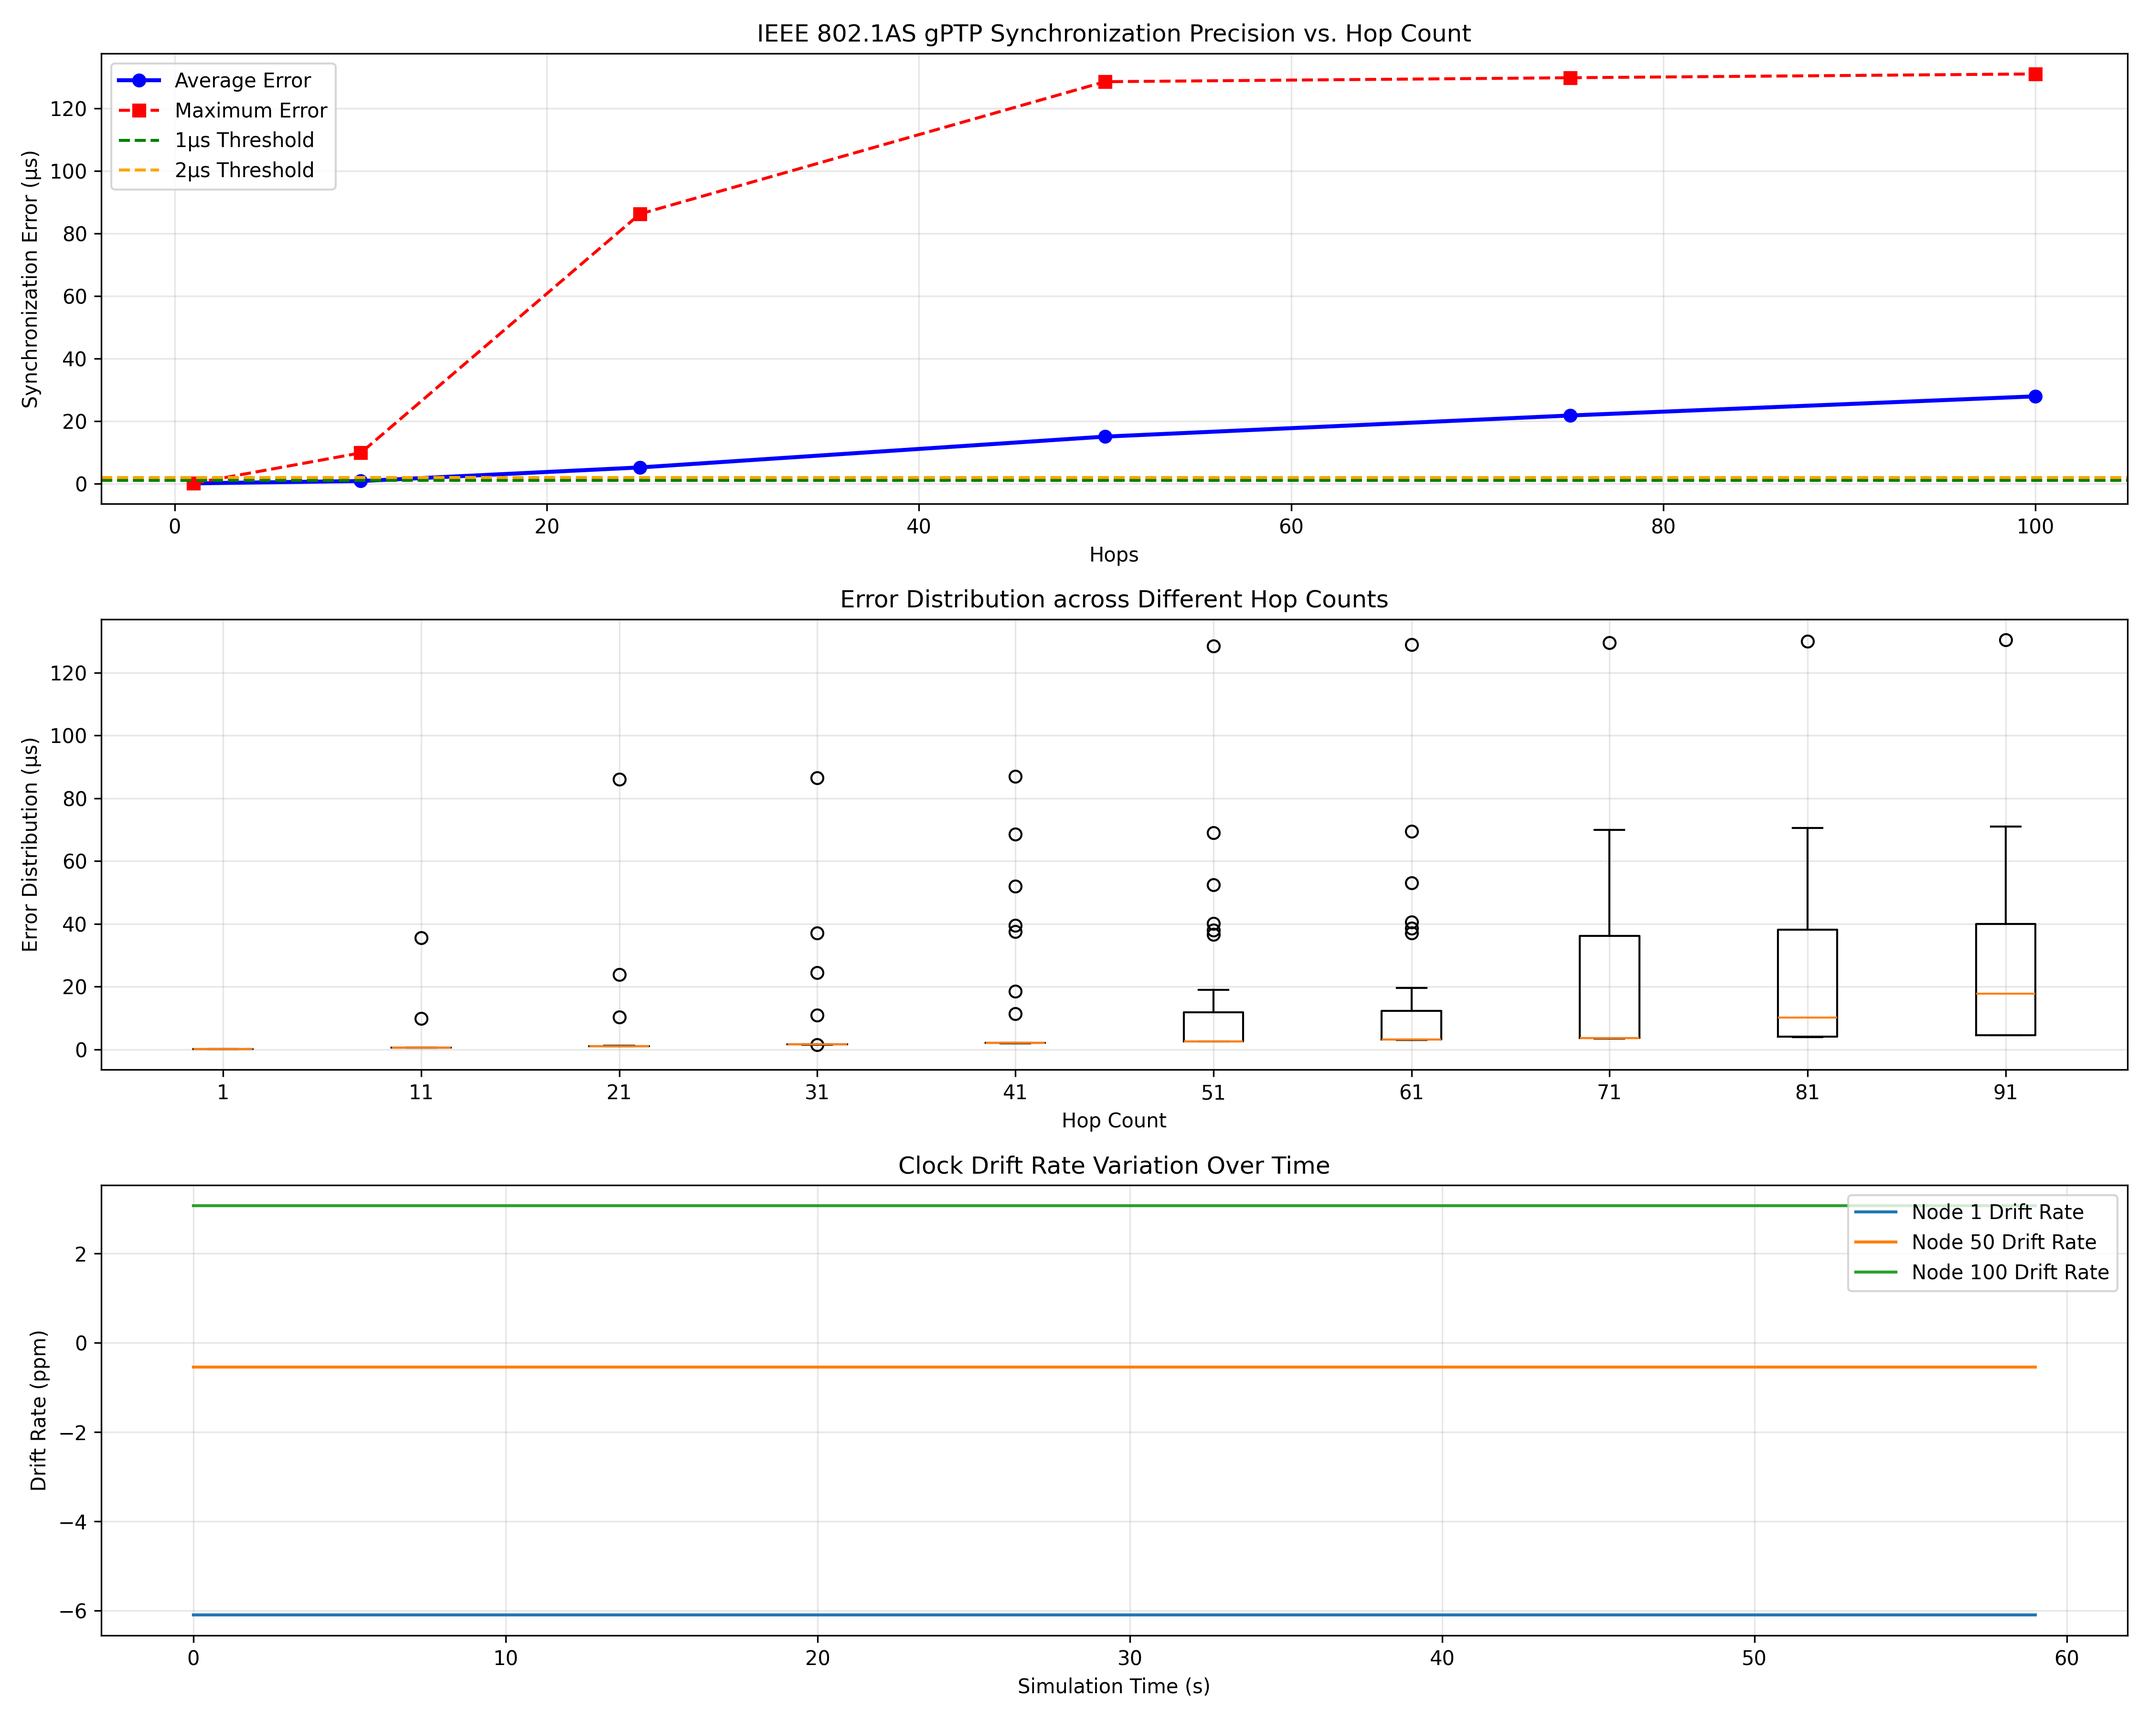
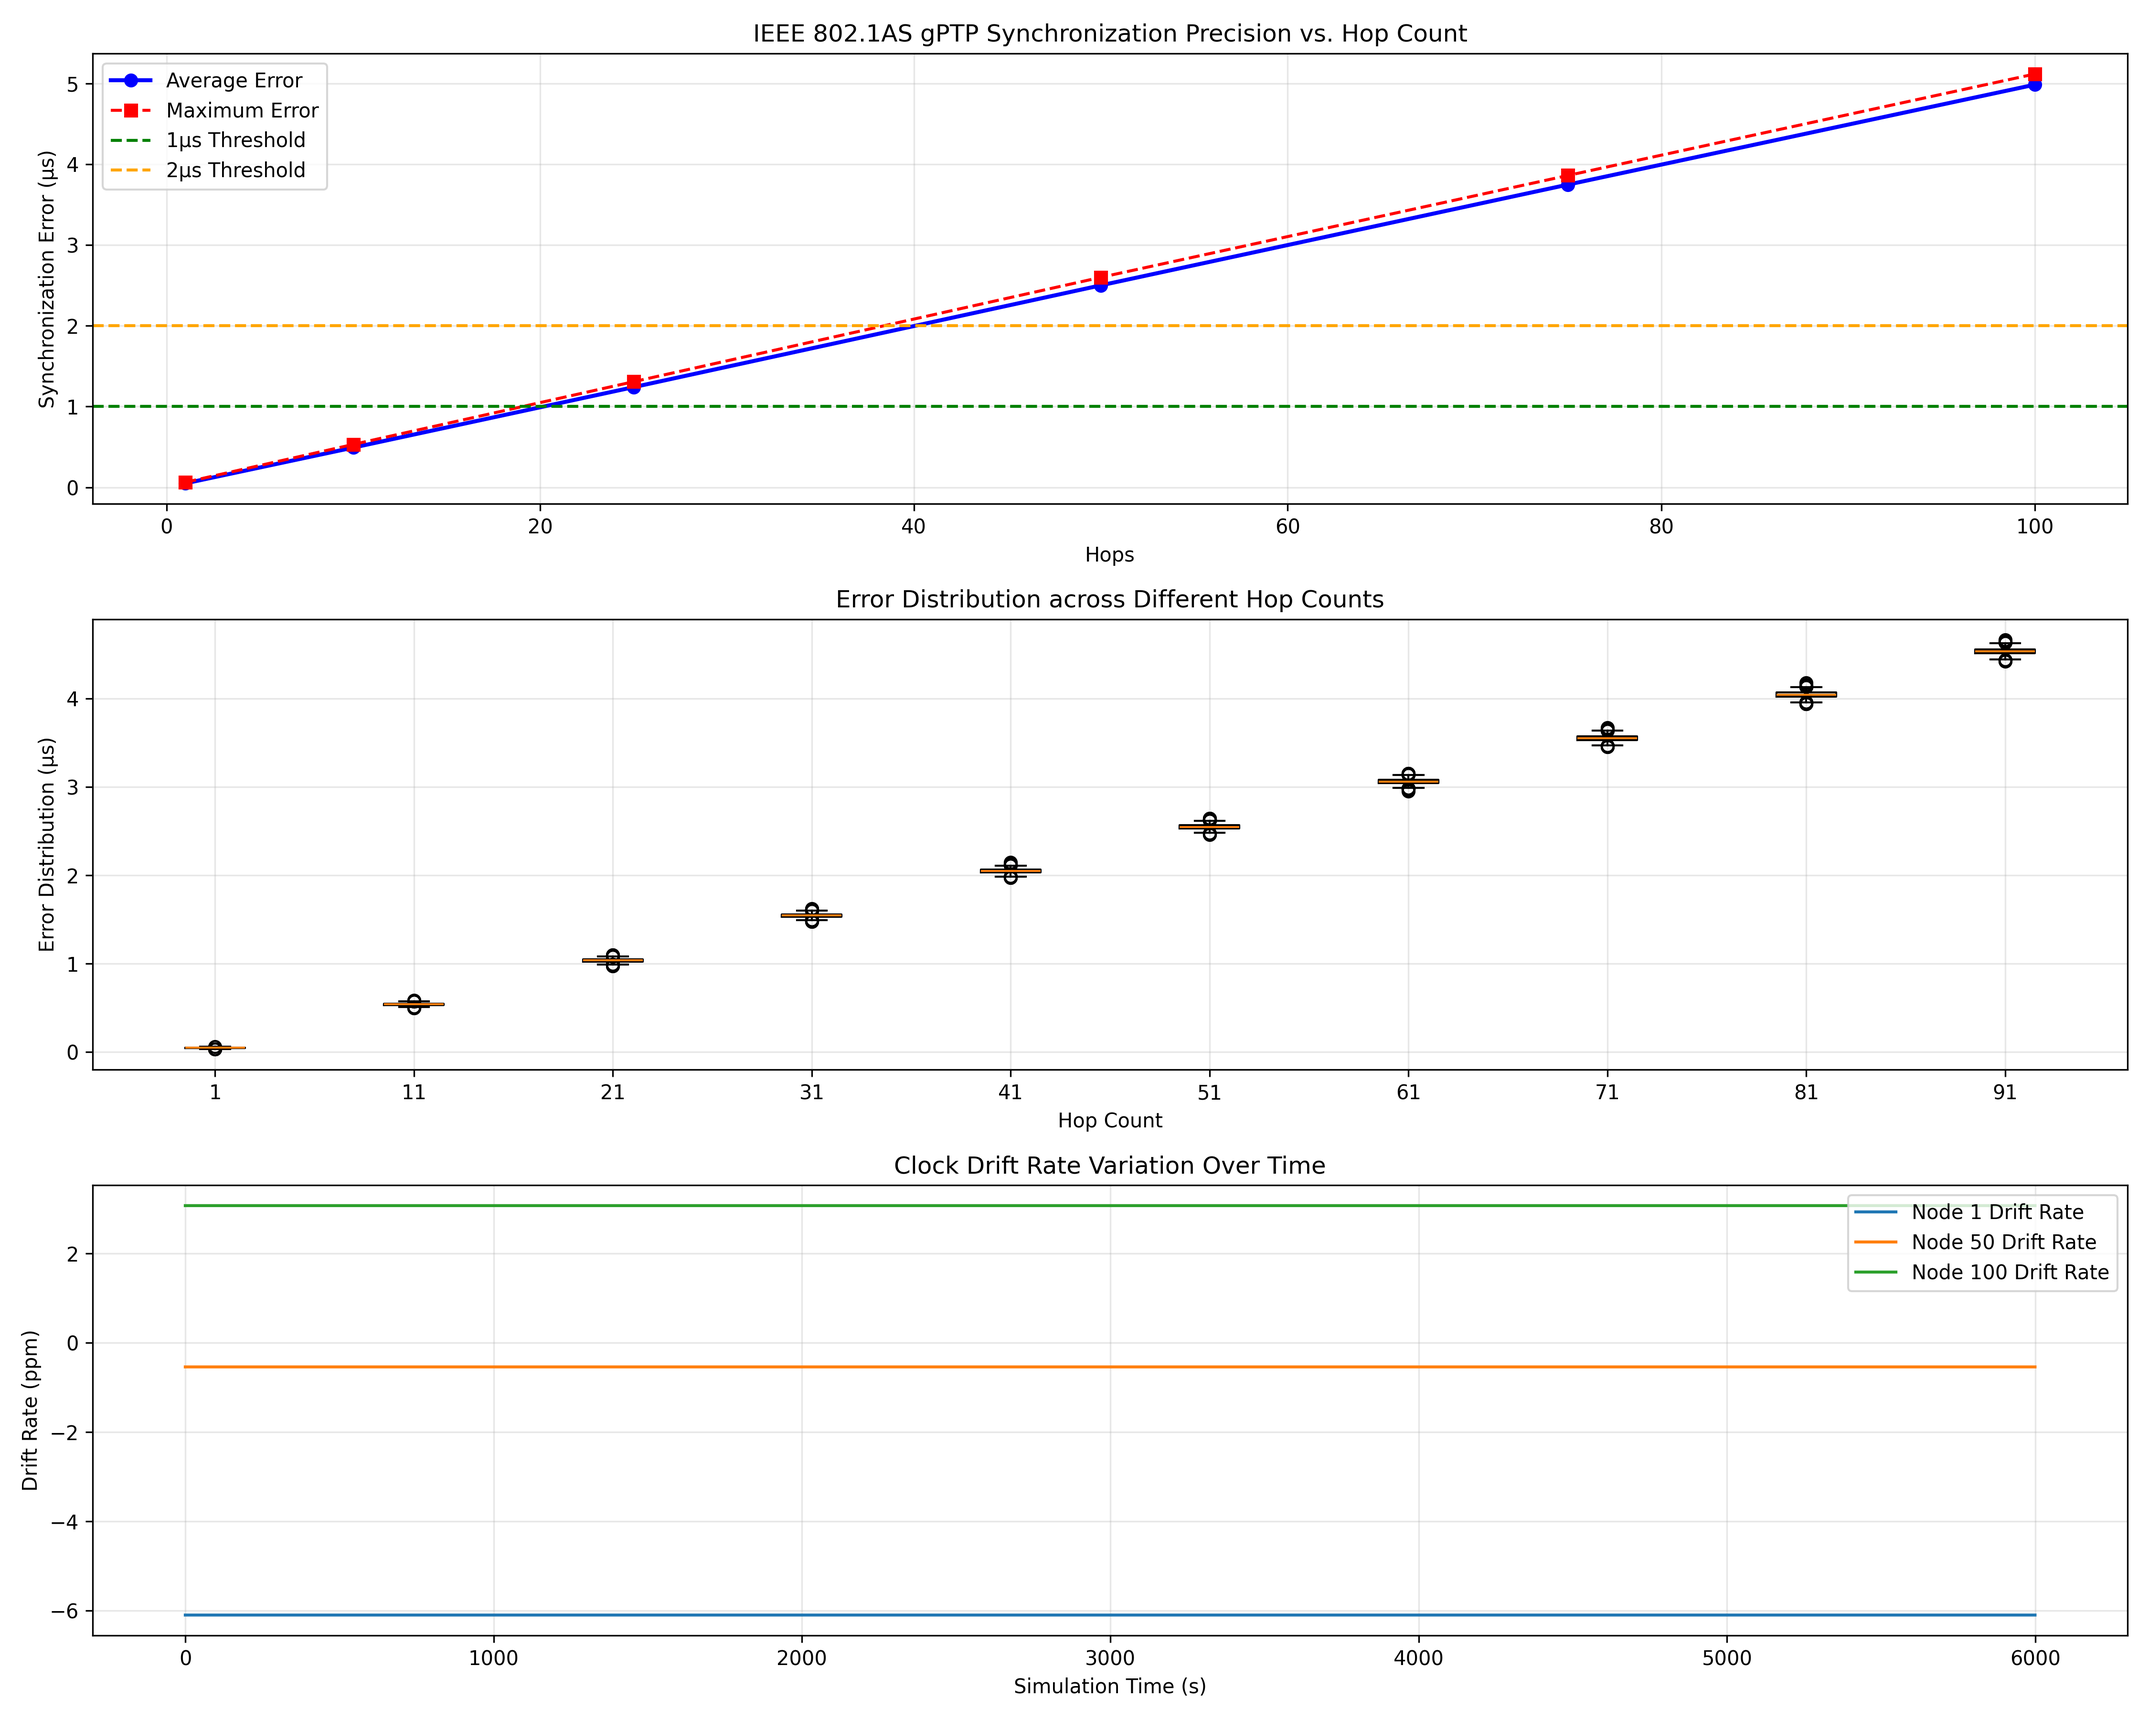
尝试

diff --git a/main_20250407claude_v1.py b/main_20250407claude_v1.py
@@ -115,9 +115,10 @@ class NetworkNode:
         symmetric_delay = self.prop_delay + 0.5 * (self.phy_jitter + self.upstream.phy_jitter)
 
         # 添加随机波动、不对称性补偿与网络事件
-        event_delay = self.simulate_network_event()
+        # event_delay = self.simulate_network_event()
         measured_delay = (symmetric_delay * (1 + np.random.uniform(-0.05, 0.05)) +
-                          self.asymmetry_delay + event_delay)
+                          # self.asymmetry_delay + event_delay)
+                          self.asymmetry_delay)
 
         # 确保延迟不为负
         return max(measured_delay, 1e-9)
@@ -176,9 +177,9 @@ class NetworkNode:
                     last_times[0], upstream_time
                 )
                 # 平滑更新频率比（避免突变）
-                if self.sync_count > 10:
-                    ratio = 0.2 * ratio + 0.8 * self.clock.rate_ratio
-                self.clock.rate_ratio = ratio
+                # if self.sync_count > 10:
+                #     ratio = 0.2 * ratio + 0.8 * self.clock.rate_ratio
+                # self.clock.rate_ratio = ratio
 
             self.last_ratio_update = curr_time
             last_upstream = upstream_time
@@ -366,7 +367,7 @@ if __name__ == "__main__":
     # selected_interval = '125ms'
     selected_interval = '1s'
 
-    sim = GPTP_Simulator(hops=100, interval=intervals[selected_interval], duration=60)
+    sim = GPTP_Simulator(hops=100, interval=intervals[selected_interval], duration=6000)
     sim.run()
     results = sim.analyze()
 
